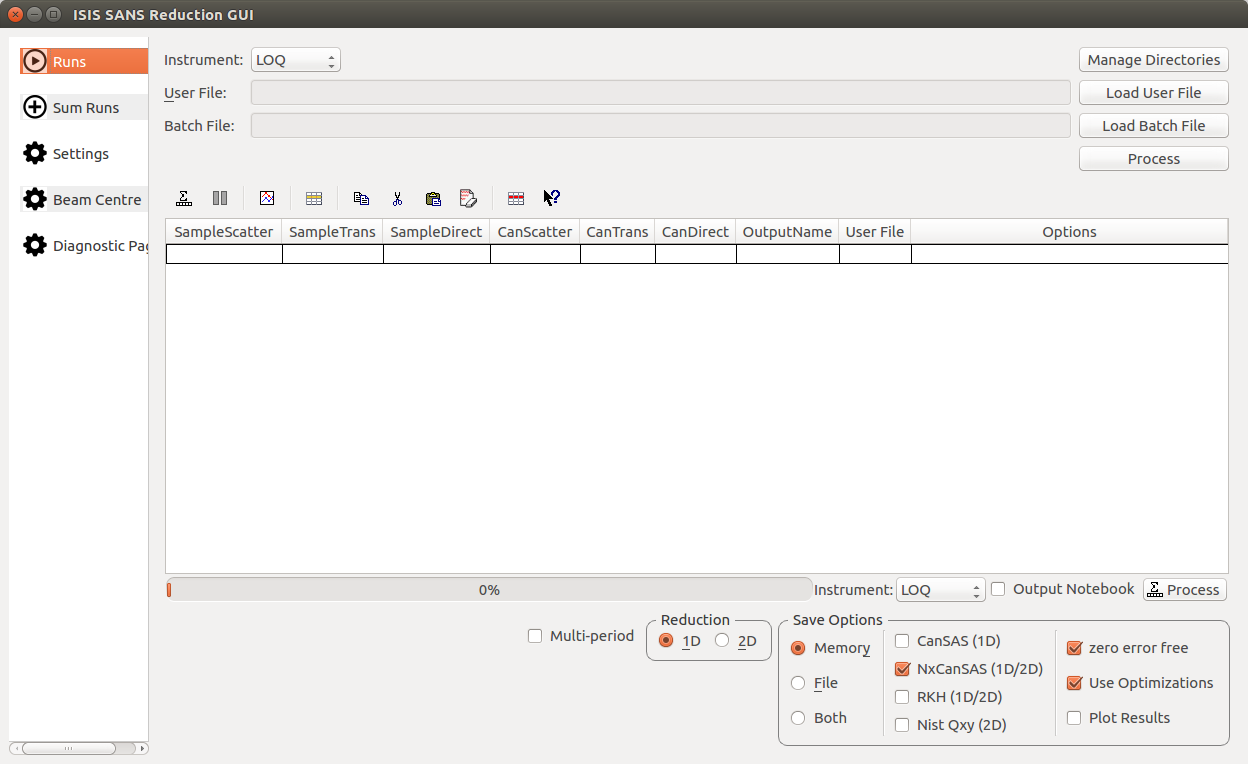
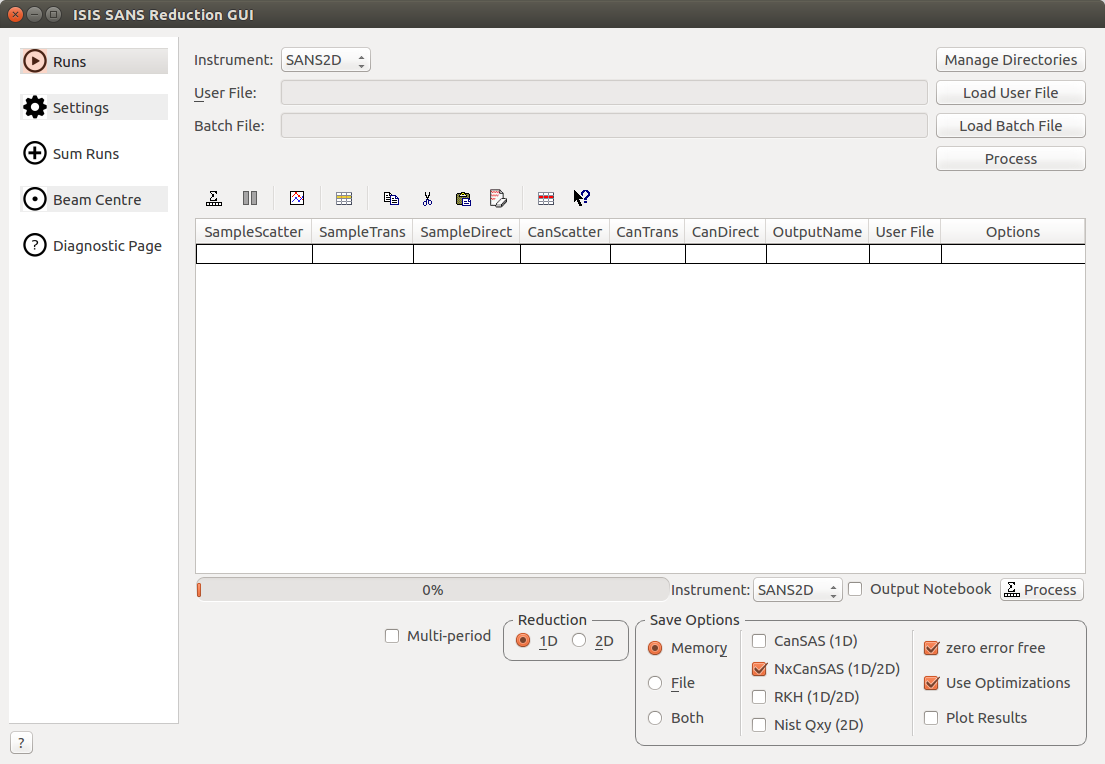
Re #21931 updated release notes

diff --git a/scripts/Interface/ui/sans_isis/sans_data_processor_gui.py b/scripts/Interface/ui/sans_isis/sans_data_processor_gui.py
@@ -211,11 +211,11 @@ class SANSDataProcessorGui(QtGui.QMainWindow, ui_sans_data_processor_window.Ui_S
         add_runs_page_icon = QtGui.QIcon(add_runs_page_icon_path)
         _ = QtGui.QListWidgetItem(add_runs_page_icon, "Sum Runs", self.tab_choice_list)  # noqa
 
-        settings_icon_path = os.path.join(path, "icons", "settings.png")
+        settings_icon_path = os.path.join(path, "icons", "centre.png")
         settings_icon = QtGui.QIcon(settings_icon_path)
         _ = QtGui.QListWidgetItem(settings_icon, "Beam Centre", self.tab_choice_list)  # noqa
 
-        settings_icon_path = os.path.join(path, "icons", "settings.png")
+        settings_icon_path = os.path.join(path, "icons", "diagnostic.png")
         settings_icon = QtGui.QIcon(settings_icon_path)
         _ = QtGui.QListWidgetItem(settings_icon, "Diagnostic Page", self.tab_choice_list)  # noqa
 

diff --git a/docs/source/release/v3.12.0/sans.rst b/docs/source/release/v3.12.0/sans.rst
@@ -38,11 +38,12 @@ Improvements
 - Have added functionality to continually plot latest results to Isis Gui v2.
 - Added more prominent instrument selection and process buttons to Isis Gui v2.
 - Added manage directories button to Isis Gui v2.
+- Added link to documentation at the bottom left of Isis Gui v2.
 
 Bug fixes
 #########
 
-- Fixed a bug  in Isis backend v2 where merged or all reductions were overwriting each other as they were being given the same name.
+- Fixed a bug in the new Isis backend where merged or all reductions were overwriting each other as they were being given the same name.
 - Fixed a bug where specifying fit range was not working for merged reductions. Previously the user specified range was being ignored.
 - Fixed a bug in the old GUI where loading files on UNIX systems would not work unless the file name was in uppercase letters.
 - Fixed a bug in the old GUI where merged reductions of time sliced data was not working.
